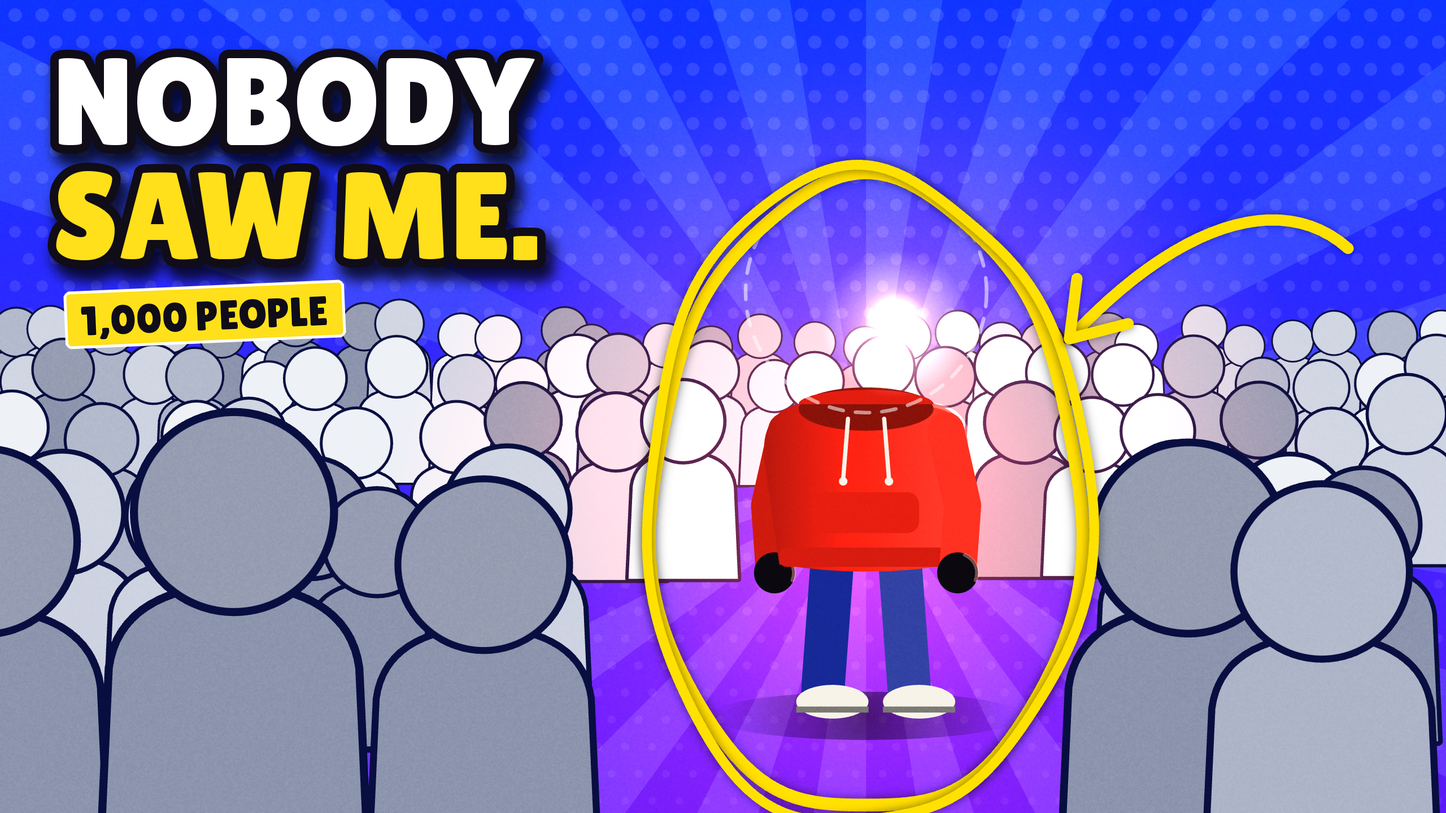
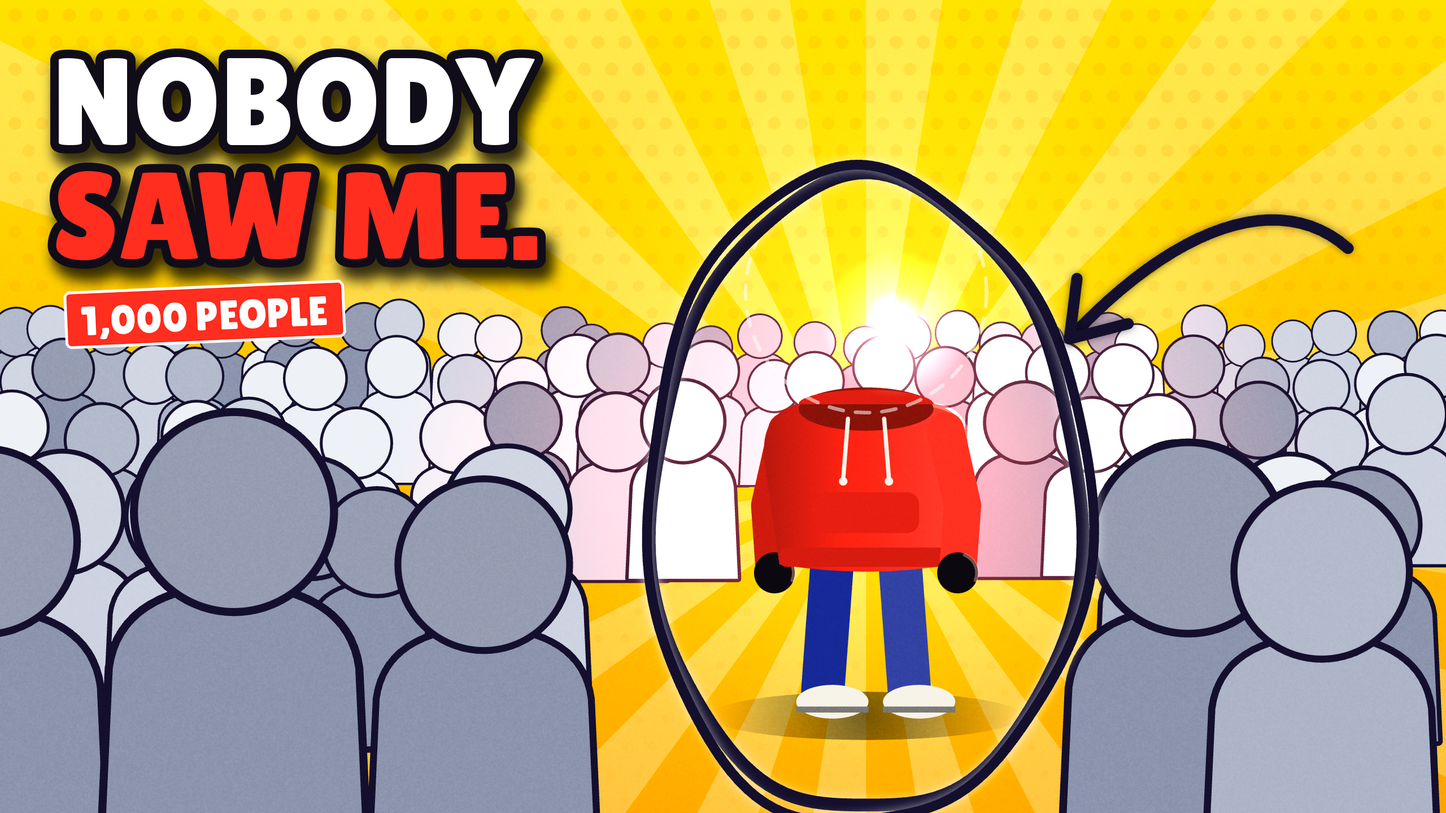
Poster thumbnail: yellow main + blue alt (2K), auto tag text colour
Claude-Session: https://claude.ai/code/session_01YFUDhrMedF3J9RxaY7Gex1

diff --git a/razgon-2d-studio/projects/thumbs/scenes/shots/invisible3.js b/razgon-2d-studio/projects/thumbs/scenes/shots/invisible3.js
@@ -53,13 +53,13 @@ const V = {
 };
 
 // 3 — "WHERE'S WALDO" poster: flat pop-art blue + sunburst, a dense gray crowd, ONE headless red hoodie circled with a yellow marker.
-V[3] = (g, t) => {
+const poster = (th) => (g, t) => {
   const hx = 1150, fy = 945, r = 160;
-  g.fillStyle = linGrad(g, 0, 0, 0, E.H, ['#1636ff', '#5a1fe0']); g.fillRect(0, 0, E.W, E.H);
-  g.save(); g.globalCompositeOperation = 'lighter'; for (let i = 0; i < 40; i += 2) { const a0 = i / 40 * Math.PI * 2, a1 = (i + 1) / 40 * Math.PI * 2; g.fillStyle = 'rgba(120,170,255,0.16)'; g.beginPath(); g.moveTo(hx, 640); g.lineTo(hx + Math.cos(a0) * 2600, 640 + Math.sin(a0) * 2600); g.lineTo(hx + Math.cos(a1) * 2600, 640 + Math.sin(a1) * 2600); g.fill(); } g.restore();
-  for (let y = 20; y < E.H; y += 36) for (let x = ((y / 36) % 2) * 18 + 10; x < E.W; x += 36) { g.fillStyle = `rgba(255,255,255,${0.05 + 0.07 * (1 - y / E.H)})`; g.beginPath(); g.arc(x, y, 5 + 4 * (1 - y / E.H), 0, 7); g.fill(); }
+  g.fillStyle = linGrad(g, 0, 0, 0, E.H, th.bg); g.fillRect(0, 0, E.W, E.H);
+  g.save(); g.globalCompositeOperation = th.rayOp; for (let i = 0; i < 40; i += 2) { const a0 = i / 40 * Math.PI * 2, a1 = (i + 1) / 40 * Math.PI * 2; g.fillStyle = th.ray; g.beginPath(); g.moveTo(hx, 640); g.lineTo(hx + Math.cos(a0) * 2600, 640 + Math.sin(a0) * 2600); g.lineTo(hx + Math.cos(a1) * 2600, 640 + Math.sin(a1) * 2600); g.fill(); } g.restore();
+  for (let y = 20; y < E.H; y += 36) for (let x = ((y / 36) % 2) * 18 + 10; x < E.W; x += 36) { g.fillStyle = `rgba(${th.dot},${0.06 + 0.08 * (1 - y / E.H)})`; g.beginPath(); g.arc(x, y, 5 + 4 * (1 - y / E.H), 0, 7); g.fill(); }
   const P = (x, y, s, c) => { // sticker-style silhouette with a dark outline
-    g.save(); g.lineJoin = 'round'; g.lineWidth = Math.max(4, s * 0.16); g.strokeStyle = '#0a0f3a';
+    g.save(); g.lineJoin = 'round'; g.lineWidth = Math.max(4, s * 0.16); g.strokeStyle = th.line;
     g.beginPath(); g.moveTo(x - s * 1.3, y); g.lineTo(x - s * 1.2, y - s * 2.2); g.quadraticCurveTo(x - s * 1.1, y - s * 2.95, x, y - s * 3); g.quadraticCurveTo(x + s * 1.1, y - s * 2.95, x + s * 1.2, y - s * 2.2); g.lineTo(x + s * 1.3, y); g.closePath(); g.stroke(); g.fillStyle = c; g.fill();
     g.beginPath(); g.arc(x, y - s * 3.75, s * 0.95, 0, 7); g.stroke(); g.fillStyle = shade(c, 0.08); g.fill(); g.restore(); };
   const rowP = (seed, n, x0, x1, y, s, cols, skip) => { const rg = rng(seed); for (let i = 0; i < n; i++) { const x = x0 + (x1 - x0) * (i + rg() * 0.6) / n; if (skip && Math.abs(x - hx) < skip) continue; P(x, y + (rg() - 0.5) * 22, s * (0.92 + rg() * 0.2), cols[Math.floor(rg() * cols.length)]); } };
@@ -69,12 +69,14 @@ V[3] = (g, t) => {
   heroFull(g, hx, fy, r, 'smug', { headless: true, hoodie: '#ff2e1f', pants: '#1a2a8a', rim: '#ffb0a0', haloA: 0.2, pose: 'idle', dir: 1 });
   rowP(64, 12, 0, 1960, 990, 78, grays, 280); rowP(65, 7, -40, 2000, 1190, 120, ['#cfd3e0', '#aeb4c6', '#8e95aa'], 330);
   // hand-drawn yellow marker circle (two wobbly loops)
-  const cx = hx, cy = 665, rx = 285, ry = 420; g.save(); g.lineCap = 'round'; g.shadowColor = 'rgba(0,0,0,.55)'; g.shadowBlur = 18;
-  for (const [k, w] of [[0, 17], [1, 13]]) { g.strokeStyle = '#ffe01a'; g.lineWidth = w; g.beginPath(); for (let i = 0; i <= 150; i++) { const a = -2 + i / 150 * (Math.PI * 2 * 1.06) + k * 0.12, wob = 1 + 0.025 * Math.sin(a * 3 + k) + 0.012 * Math.sin(a * 7), q = 1 + k * 0.035; const x = cx + Math.cos(a) * rx * wob * q, y = cy + Math.sin(a) * ry * wob * q; i ? g.lineTo(x, y) : g.moveTo(x, y); } g.stroke(); } g.restore();
+  const cx = hx, cy = 665, rx = 285, ry = 420; g.save(); g.lineCap = 'round'; g.shadowColor = th.shadow; g.shadowBlur = 18;
+  for (const [k, w] of [[0, 17], [1, 13]]) { g.strokeStyle = th.mark; g.lineWidth = w; g.beginPath(); for (let i = 0; i <= 150; i++) { const a = -2 + i / 150 * (Math.PI * 2 * 1.06) + k * 0.12, wob = 1 + 0.025 * Math.sin(a * 3 + k) + 0.012 * Math.sin(a * 7), q = 1 + k * 0.035; const x = cx + Math.cos(a) * rx * wob * q, y = cy + Math.sin(a) * ry * wob * q; i ? g.lineTo(x, y) : g.moveTo(x, y); } g.stroke(); } g.restore();
   // hand-drawn arrow from the right pointing at the circle + a '?' over the missing head
-  g.save(); g.strokeStyle = '#ffe01a'; g.lineWidth = 15; g.lineCap = 'round'; g.lineJoin = 'round'; g.shadowColor = 'rgba(0,0,0,.5)'; g.shadowBlur = 14;
+  g.save(); g.strokeStyle = th.mark; g.lineWidth = 15; g.lineCap = 'round'; g.lineJoin = 'round'; g.shadowColor = 'rgba(0,0,0,.5)'; g.shadowBlur = 14;
   g.beginPath(); g.moveTo(1790, 330); g.bezierCurveTo(1700, 250, 1560, 300, 1420, 450); g.stroke(); g.beginPath(); g.moveTo(1420, 450); g.lineTo(1430, 370); g.moveTo(1420, 450); g.lineTo(1498, 430); g.stroke(); g.restore();
   star(g, 1190, 430, 38, '#ffffff');
 };
+V[3] = poster({ bg: ['#1636ff', '#5a1fe0'], rayOp: 'lighter', ray: 'rgba(120,170,255,0.16)', dot: '255,255,255', line: '#0a0f3a', mark: '#ffe01a', shadow: 'rgba(0,0,0,.55)' });
+V[4] = poster({ bg: ['#ffe11a', '#ffa500'], rayOp: 'source-over', ray: 'rgba(255,255,255,0.30)', dot: '255,140,0', line: '#14102a', mark: '#14102a', shadow: 'rgba(255,255,255,.6)' });
 
 for (const s of E.shots) if (s.params?.tpl === 'ifv-invisible3') registerShot(s.id, { draw(g, t, info) { V[info.k](g, t); } });

diff --git a/razgon-2d-studio/projects/thumbs/story/text2.py b/razgon-2d-studio/projects/thumbs/story/text2.py
@@ -24,7 +24,7 @@ if tag:
     tf = ImageFont.truetype(F, round(54 * K)); w = int(fd.textlength(tag, font=tf)) + round(44 * K); h = round(76 * K)
     P = round(10 * K); t = Image.new('RGBA', (w + 2 * P, h + 2 * P), (0, 0, 0, 0)); td = ImageDraw.Draw(t)
     td.rounded_rectangle((P, P, w + P, h + P), round(8 * K), fill=acc or (222, 38, 38), outline=(255, 255, 255), width=max(1, round(4 * K)))
-    td.text((w / 2 + P, h / 2 + P + 2 * K), tag, font=tf, fill=(16, 12, 24) if acc else (255, 255, 255), anchor='mm')
+    td.text((w / 2 + P, h / 2 + P + 2 * K), tag, font=tf, fill=(16, 12, 24) if (acc and 0.299 * acc[0] + 0.587 * acc[1] + 0.114 * acc[2] > 150) else (255, 255, 255), anchor='mm')
     t = t.rotate(2.5, expand=True, resample=Image.BICUBIC)
     fg.alpha_composite(t, (round(x + 4 * K) if align == 'L' else im.width - x - t.width - round(4 * K), yy + round(18 * K)))
 im.alpha_composite(sh.filter(ImageFilter.GaussianBlur(8 * K))); im.alpha_composite(fg)
